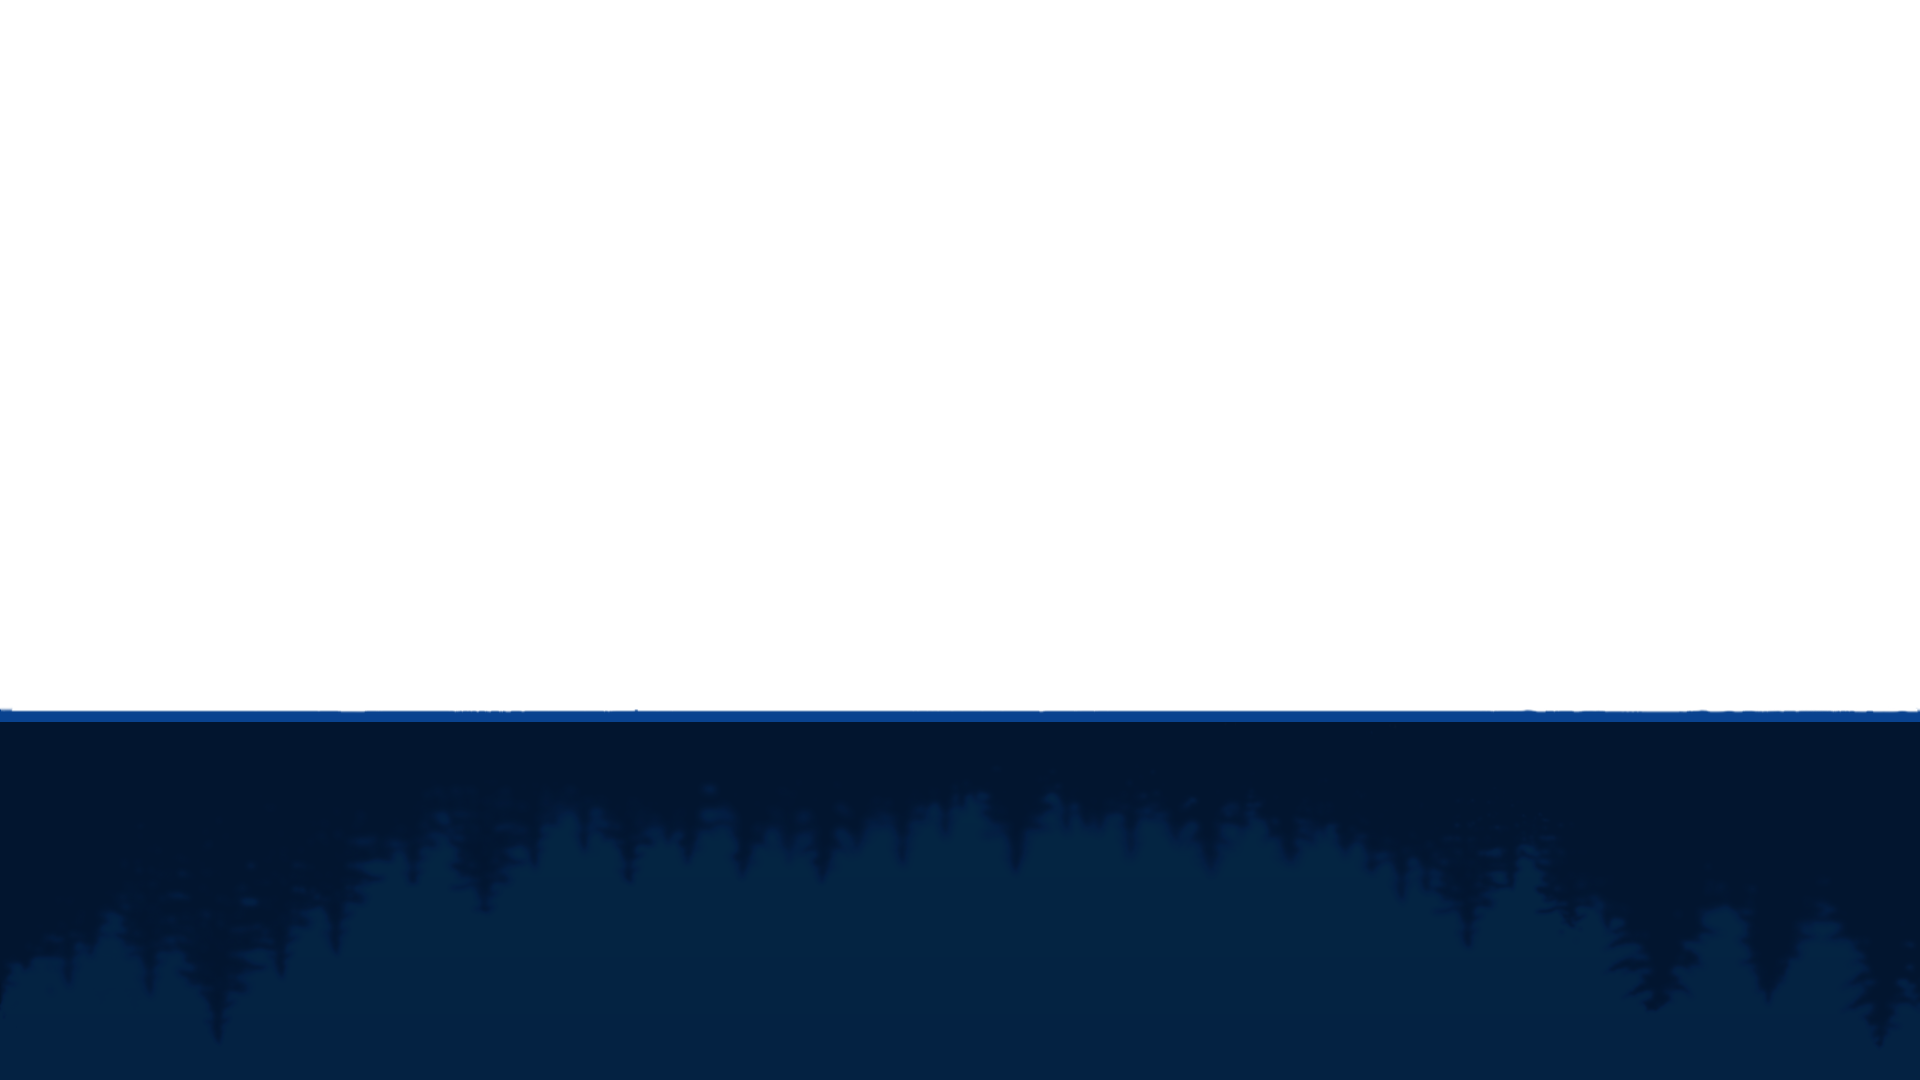
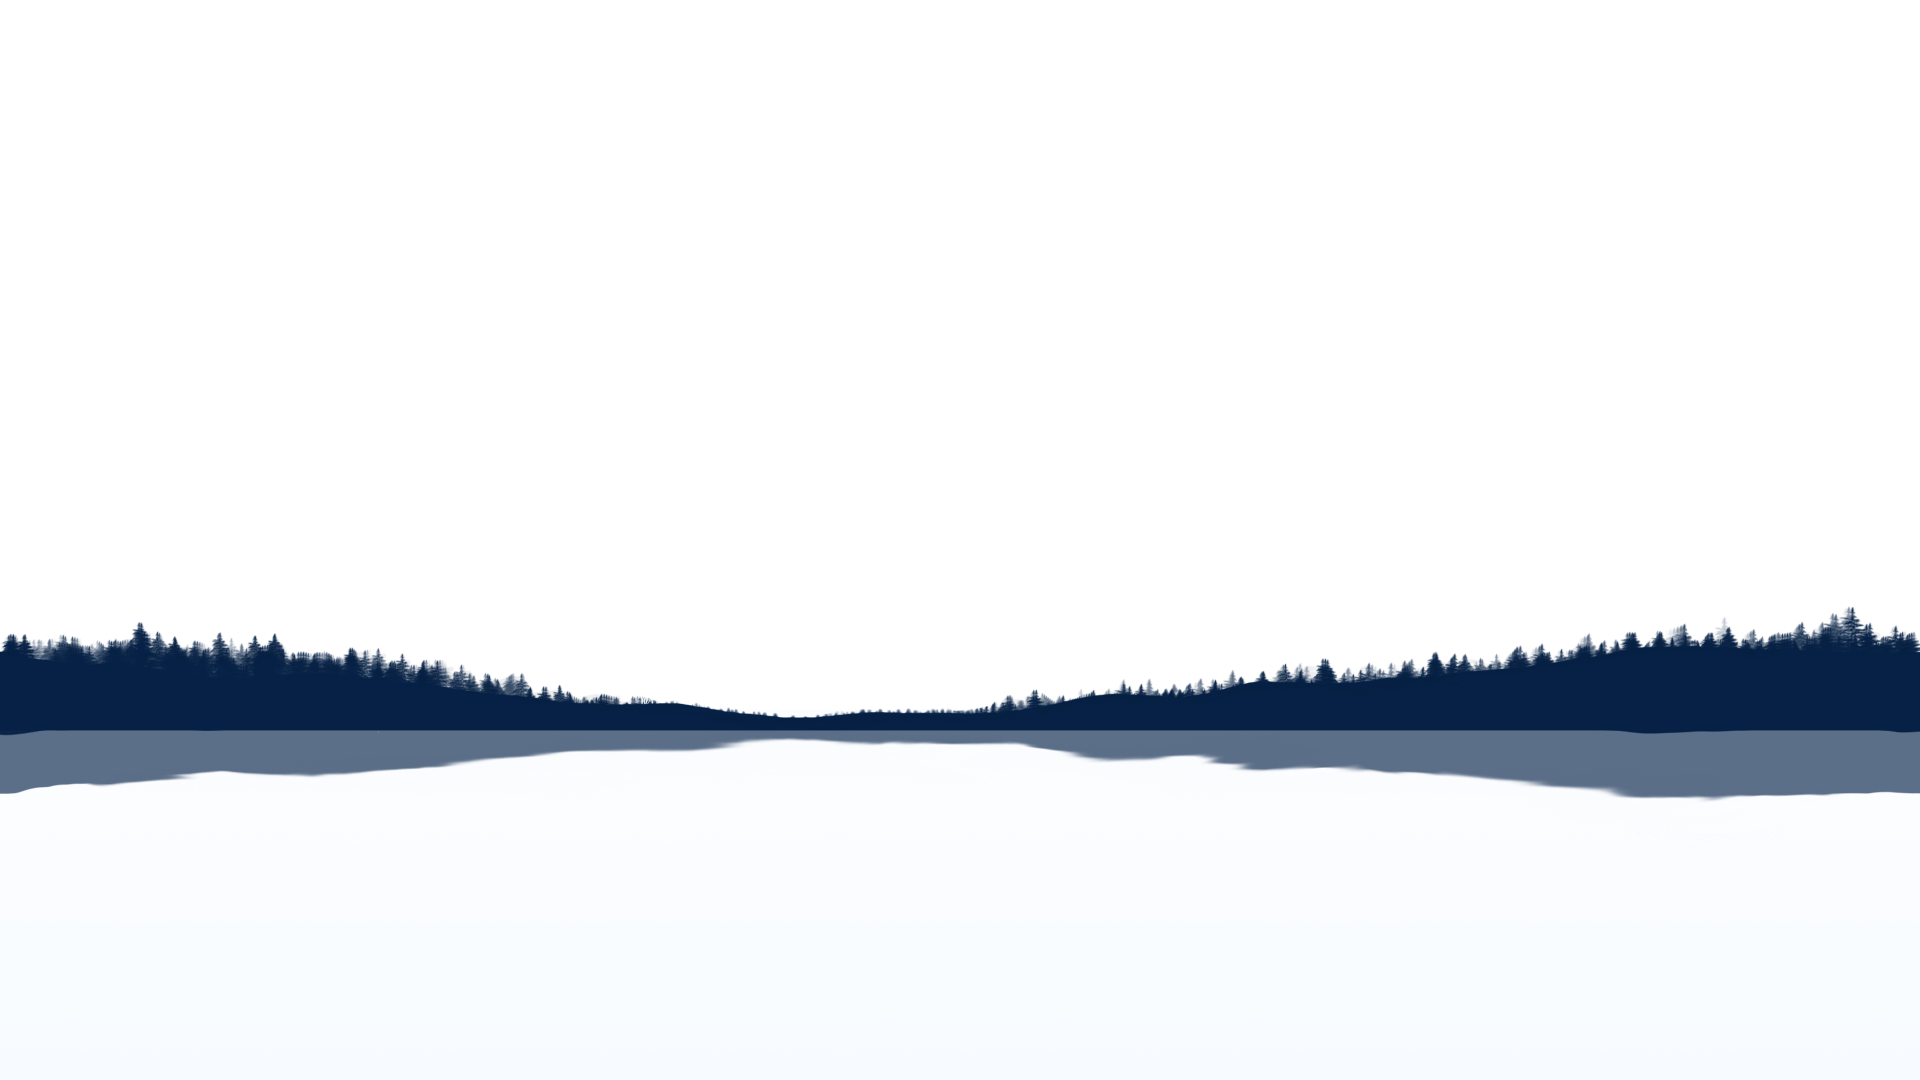
Art Update

diff --git a/src/components/Trees.css b/src/components/Trees.css
@@ -1,10 +1,9 @@
 #trees {
-  margin-bottom: -180px;
   grid-row: 2;
   grid-column: 1;
   height: 100%;
-  background: url("../img/forest1961-959.png") repeat-x;
-  animation: scroll 360s linear infinite;
+  background: url("../img/midnight-lake.png") repeat-x;
+  animation: scroll 560s linear infinite;
   z-index: 2;
   /* animation-play-state: paused; */
 }
@@ -22,15 +21,15 @@
 
 .waterOverlay {
   width: 100%;
-  height: 120px;
+  height: 220px;
   bottom: 0;
   opacity: 0.05;
-  filter: blur(30px);
+  filter: blur(40px);
   background: linear-gradient(0deg, #f6f6f6, #00042000, #ebebeb, #000c5900);
   background-size: 800% 800%;
-  -webkit-animation: waterRipples 76s ease infinite;
-  -moz-animation: waterRipples 76s ease infinite;
-  animation: waterRipples 76s ease infinite;
+  -webkit-animation: waterRipples 176s ease infinite;
+  -moz-animation: waterRipples 176s ease infinite;
+  animation: waterRipples 176s ease infinite;
 }
 
 @-webkit-keyframes waterRipples {

diff --git a/src/components/Moon.jsx b/src/components/Moon.jsx
@@ -2,24 +2,24 @@ import React, {Fragment, useState, useEffect} from 'react'
 import './Moon.css'
 const Moon = (props) => {
 
-  const [moveMoon, setMoveMoon] = useState("180px")
+  const [moveMoon, setMoveMoon] = useState("10px")
   const [moonRaysOpacity, setMoonRaysOpacity] = useState("0.6")
   
   useEffect(() => {
     if(props.pageIndex === 1) {
-      setMoveMoon("180px")
+      setMoveMoon("10px")
       setMoonRaysOpacity("0.6")
     } 
     if(props.pageIndex === 2) {
-      setMoveMoon("-20px")
+      setMoveMoon("-80px")
       setMoonRaysOpacity("0.6")
     } 
     if(props.pageIndex === 3) {
-      setMoveMoon("-160px")
+      setMoveMoon("-460px")
       setMoonRaysOpacity("0.4")
     } 
     if(props.pageIndex === 4) {
-      setMoveMoon("-260px")
+      setMoveMoon("-560px")
       setMoonRaysOpacity("0")
     } 
      

diff --git a/src/components/Background.jsx b/src/components/Background.jsx
@@ -15,7 +15,7 @@ import './Background.css';
 
 function Background(props) {
 
-  const [zoom, setZoom] = useState(("scale(0.9)"))
+  const [zoom, setZoom] = useState(("scale(0.7)"))
 
   
 
@@ -23,16 +23,16 @@ function Background(props) {
 
 
     if(props.pageIndex === 1) {
-      setZoom("scale(0.9)")
+      setZoom("scale(0.7)")
     } 
     if(props.pageIndex === 2) {
-      setZoom("scale(0.8)")
-    } 
-    if(props.pageIndex === 3) {
       setZoom("scale(0.6)")
     } 
-    if(props.pageIndex === 4) {
+    if(props.pageIndex === 3) {
       setZoom("scale(0.5)")
+    } 
+    if(props.pageIndex === 4) {
+      setZoom("scale(0.4)")
     } 
      
     

diff --git a/src/components/Grass.css b/src/components/Grass.css
@@ -1,18 +1,16 @@
 .grass {
   height: 100%;
   width: 100%;
-  /* background: #000220;
-  clip-path: ellipse(50% 6% at 50% 100%); */
-  background: url("../img/grass.png") bottom repeat-x;
-  animation: scrollBackGrass 7s linear infinite;
-  z-index: 10;
+  background: url("../img/midnight-foreground-bank.png") repeat-x;
+  animation: scrollBackGrass 50s linear infinite;
+  z-index: 2;
 }
 
 @keyframes scrollBackGrass {
   from {
-    background-position: 0 bottom;
+    background-position: 0 center;
   }
   to {
-    background-position: 245px bottom;
+    background-position:  1920px center;
   }
 }

diff --git a/src/components/pages/PageNotFound.jsx b/src/components/pages/PageNotFound.jsx
@@ -1,5 +1,4 @@
 import React from 'react'
-import Button from 'react-bootstrap/Button'
 import '../../sass/main.scss'
 import { Link } from 'react-router-dom';
 function PageNotFound() {
@@ -9,7 +8,7 @@ function PageNotFound() {
       <h2>Page not found</h2>
       <div className="spacer"></div>
       <Link to="/">
-        <Button variant="primary"><p>Back</p></Button>
+        <button variant="primary"><p>Back</p></button>
       </Link>
     </div>
   )

diff --git a/src/components/TallTrees.css b/src/components/TallTrees.css
@@ -2,7 +2,7 @@
   position: absolute;
   height: 200%;
   width: 500%;
-  background: url("../img/tallTree3.png") repeat-x;
+  background: url("../img/midnight-front-trees.png") repeat-x;
   animation: scrollBack 40s linear infinite;
   /* animation-play-state: paused; */
   z-index: 4;
@@ -17,6 +17,6 @@
     background-position: 0 bottom;
   }
   to {
-    background-position: 2154px bottom;
+    background-position: 1920px bottom;
   }
 }

diff --git a/src/components/Trees.jsx b/src/components/Trees.jsx
@@ -10,7 +10,7 @@ const Trees = (props) => {
 
   return (
     <Fragment>
-      <div id='trees' style={{animationPlayState: backgroundPlay, marginLeft: position.x / 50 + 'px', paddingTop: position.y / 60 + 'px'}}></div>
+      <div id='trees' style={{animationPlayState: backgroundPlay, marginLeft: position.x / 50 + 'px', marginBottom: position.y / 60 + 'px'}}></div>
       <div className='waterOverlay'></div>\
     </Fragment>
   )

diff --git a/src/components/Mountains.css b/src/components/Mountains.css
@@ -1,12 +1,8 @@
 .mountains {
   width: 100%;
   min-height: 1080px;
-  background: url("../img/mountains2.png") repeat-x;
+  background: url("../img/midnight-mountains.png") repeat-x;
+  background-position: 200px;
   z-index: 1;
 }
 
-@media screen and (max-width: 750px) {
-  .mountains {
-    background: url("../img/mountains3.png") bottom repeat-x;
-  }
-}

diff --git a/src/components/Moon.css b/src/components/Moon.css
@@ -1,6 +1,6 @@
 #moon {
-  width: 100px;
-  height: 100px;
+  width: 130px;
+  height: 130px;
   background-color: aliceblue;
   border-radius: 50%;
   grid-column: 1;
@@ -8,7 +8,7 @@
   justify-self: center;
   align-self: start;
   z-index: 1;
-  transition: all 12s ease-in-out;
+  transition: all 8s ease-in-out;
 }
 
 #moonRays {

diff --git a/src/components/Mountains.jsx b/src/components/Mountains.jsx
@@ -8,7 +8,7 @@ const Mountains = () => {
 
   
   return (
-    <div className="mountains"  style={{marginLeft: position.x / 30 + 'px', paddingBottom: position.y / 30 + 'px'}} ></div>
+    <div className="mountains"  style={{marginLeft: position.x / 30 + 'px', paddingBottom: position.y / 50 + 'px'}} ></div>
   )
 }
 

diff --git a/src/components/Stars.css b/src/components/Stars.css
@@ -16,7 +16,7 @@
 }
 
 .spaceOverlay {
-  background: linear-gradient(181.23deg, transparent -15.91%, #0c1835 136.98%);
+  background: linear-gradient(181.23deg, transparent -15.91%, #102e72 136.98%);
   height: 100%;
   width: 100%;
   position: absolute;

diff --git a/src/components/Background.css b/src/components/Background.css
@@ -16,7 +16,6 @@
   position: absolute;
   display: grid;
   width: 500%;
-  transform: scale(0.8);
-  transform-origin: bottom;
+  transform-origin: bottom center;
   transition: all 8s ease-in-out;
 }
